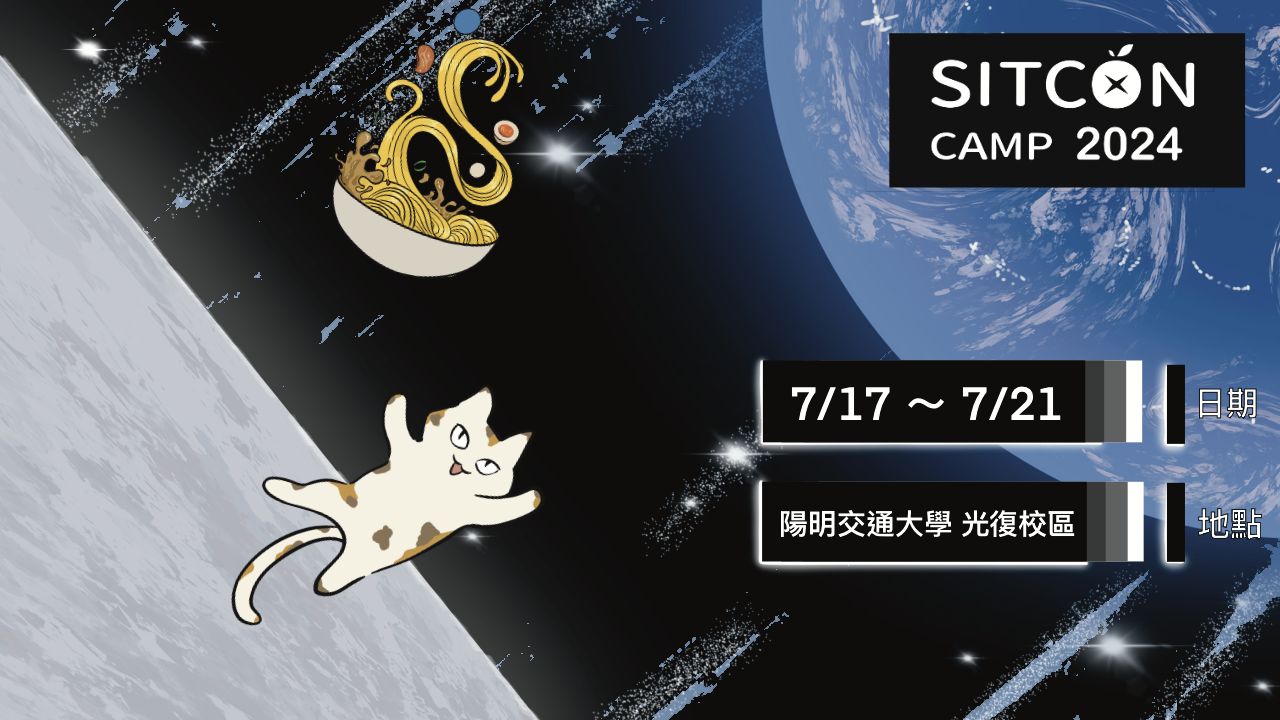
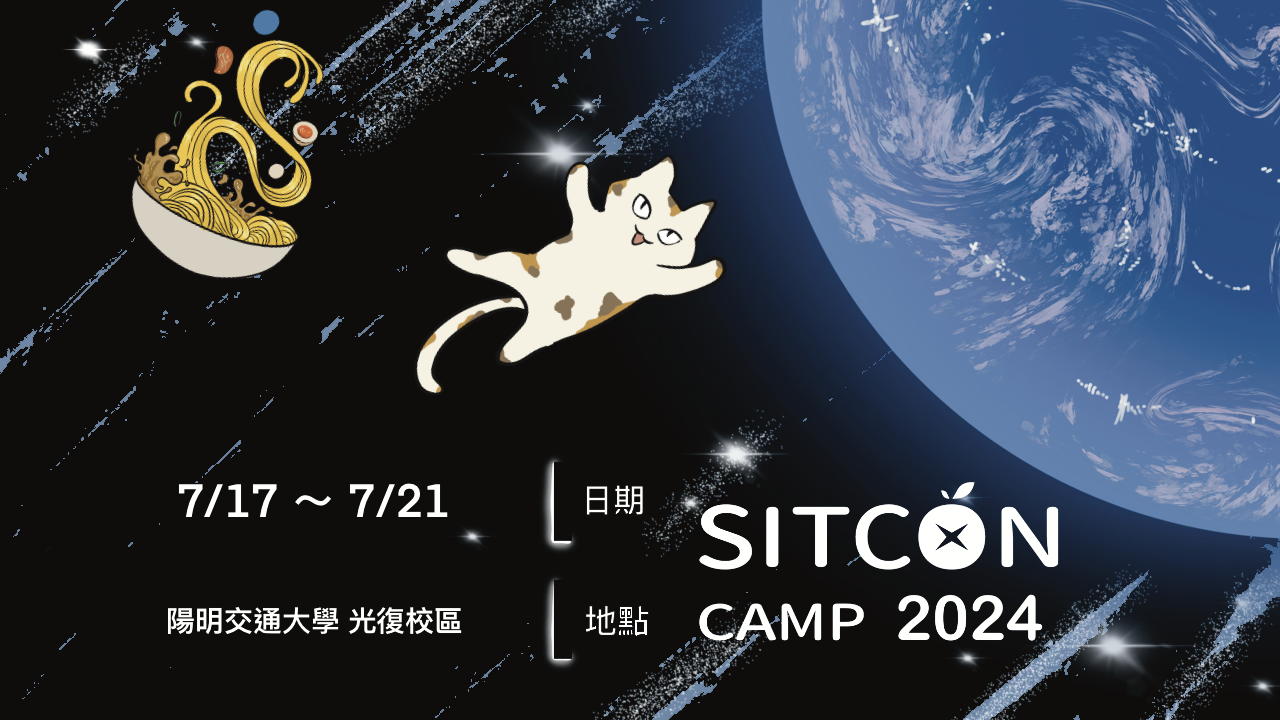
new og:image and 2024 cute cat with ramen~

diff --git a/components/Visual.tsx b/components/Visual.tsx
@@ -64,7 +64,7 @@ export default function Visual() {
           }}
           style={{ x: catX, y: catY }}
           className="absolute top-[20vh] w-[150px] sm:w-[180px] md:w-[300px] right-0 m-auto cursor-grab active:cursor-grabbing"
-          src="/2024/visual/cat.svg"
+          src="/2024/visual/cat.png"
           alt="cat"
         />
         <motion.img
@@ -79,8 +79,8 @@ export default function Visual() {
           }}
           style={{ x: astronautX, y: astronautY }}
           className="absolute top-[20vh] w-[160px] sm:w-[200px] md:w-[320px] left-0 m-auto cursor-grab active:cursor-grabbing"
-          src="/2024/visual/astronaut.svg"
-          alt="astronaut"
+          src="/2024/visual/ramen.png"
+          alt="ramen"
         />
         <motion.div
           style={{ y: infoY }}
